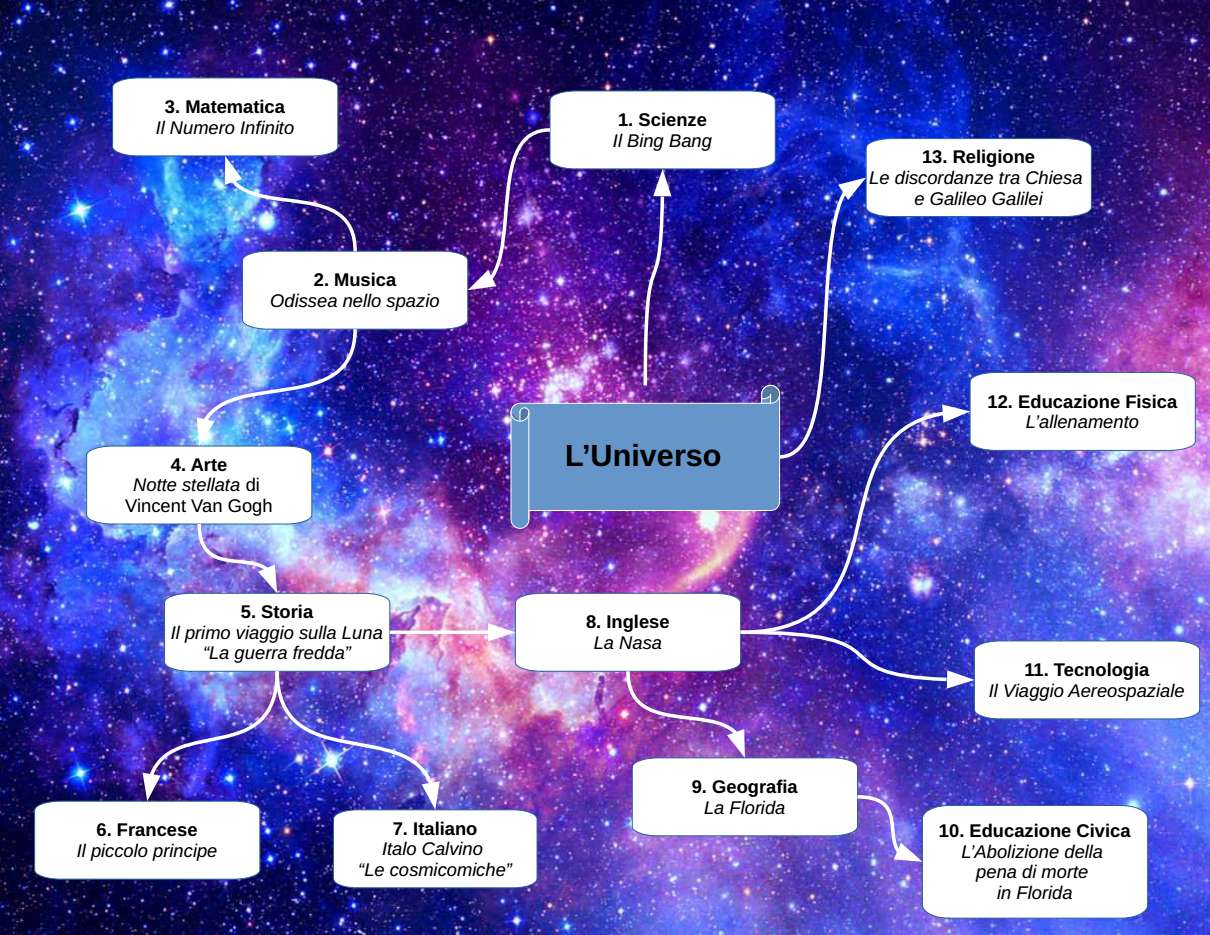
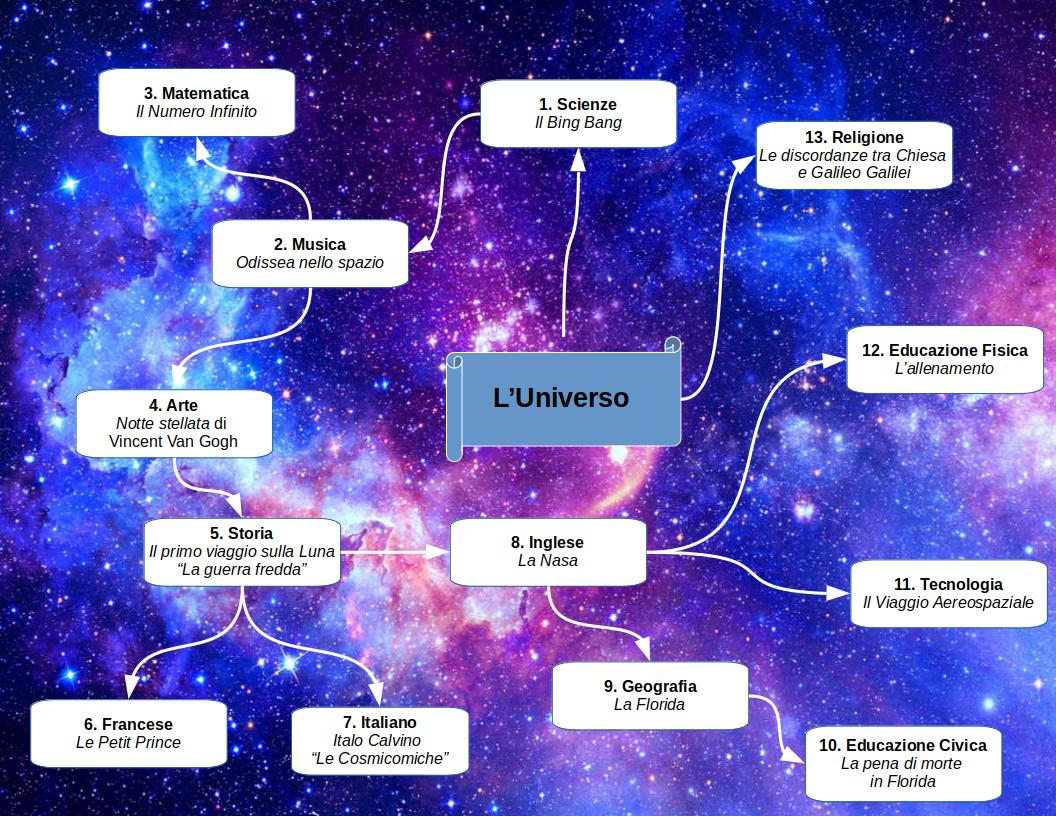
[skip ci]

diff --git a/docs/index.rst b/docs/index.rst
@@ -7,28 +7,33 @@ Ho scelto quest’argomento perché fin da bambino sono stato sempre affascinato
 
 La tesi più avvalorata dagli scienziati afferma che il **Big Bang** ha composto tutta la materia che conosciamo (l'Universo).
 
-Sull'Universo l’uomo ha creato molte storie, miti e musiche come il capolavoro "**Così parlò Zarathustra**", composto nel 1896 da Richard Strauss.
+Sull'**Universo** l’uomo ha creato molte storie, miti e musiche come il capolavoro "**Così parlò Zarathustra**", composto nel 1896 da Richard Strauss che è diventata la
+colonna sonora del film “2001 - Odissea nello spazio”.
 
-L’**Universo** si dice che sia **infinito**, concetto utilizzato anche in campo matematico per indicare qualcosa che non ha mai fine (come i numeri).
+Lo **Spazio** o **Universo** si dice che sia **infinito**, concetto utilizzato anche in campo matematico per indicare qualcosa che non ha mai fine (come i numeri).
 
-Anche l’arte alcune volte si è basata sull’**Universo**: uno dei quadri più famosi è "**La notte stellata di Van Gogh**" che è la rappresentazione di una parte del cosmo.
+Lo **Spazio** è composto da infinite stelle rappresentate in moltissime opera d’arte: uno dei quadri più famosi è "**La notte stellata di Van Gogh**" che è la rappresentazione di una
+parte del cosmo.
 
-Dall'**Universo** hanno preso spunto anche molte storie tra le quali troviamo due capolavori: **il Piccolo Principe** che è una storia di **Antoine de Saint-Exupéry** e
-**le cosmicomiche** formate da 12 racconti scritti da **Italo Calvino**.
+L’uomo ha cercato sempre di raggiungere questi corpi celesti. Il 20 luglio 1969 fu effettuato il primo viaggio sulla Luna. Il viaggio fu effettuato anche per dimostrare,
+durante la **guerra fredda**, la superiorità degli USA rispetto all’URSS.
 
-La tecnologia nell'ultimo secolo si è evoluta molto e grazie a essa siamo riusciti a espolare un piccolissima parte **dell’universo**. 
+Dall'Universo e dai viaggi nello spazio hanno preso spunto molte storie tra le quali troviamo due capolavori: **il Piccolo Principe** scritto da **Antoine de Saint-Exupéry** e
+**le Cosmicomiche** formato da 12 racconti scritti da **Italo Calvino**.
 
-Per l'esplorazione del cosmo è nata la **NASA** (Ente Nazionale per le attività Spaziali e Aeronautiche) agenzia governativa civile responsabile del programma spaziale e della
-ricerca aerospaziale in USA..
+La tecnologia nell'ultimo secolo si è evoluta molto e grazie ad essa siamo riusciti ad esplorare una piccolissima parte dell’Universo.
+
+Per l'esplorazione del cosmo è nata la **NASA** (Ente Nazionale per le attività Spaziali e Aeronautiche), agenzia governativa civile responsabile del programma spaziale e della
+ricerca aerospaziale in USA.
 
 Tra le diverse strutture della **NASA**, va ricordata la Kennedy Space Center, situata in **Florida**, divenuta famosa poiché fu il luogo da cui partì la navicella che portò l’uomo
-per la prima volta su un altro pianeta ( la Luna ), la missione è ricordata con il nome **Apollo 11**.
+per la prima volta su un altro pianeta (la Luna). La missione è ricordata con il nome di **Apollo 11**.
 
-Gli astronauti prima di partire per lo spazio si devono sottoporre a un duro **allenamento** per abituare il loro corpo all’assenza di gravità.
-Solo a coloro che hanno superano l'allenamento è consentito partire per lo spazio con il proprio shuttle spinto in orbita da un **razzo vettore** che lo trasporta a piuù di 100km di altezza.
+Gli astronauti prima di partire per lo **spazio** si devono sottoporre a un duro **allenamento** per abituare il loro corpo all’assenza di gravità. Solo a coloro che hanno superato
+l'allenamento è consentito partire per lo spazio. Lo raggiungono con lo **"shuttle"**, una navicella spaziale spinta in orbita da un **razzo vettore** che la trasporta a più di 100 km di altezza.
 
 La prima teoria scientifica sul moto dei corpi celesti fu formulata nel 1610 da **Galileo Galilei** che diffuse il suo pensiero tramite la pubblicazione di libri. La sua teoria, che iniziò
-a diffondersi rapidamente, era però in opposizione a quella sostenuta dalla chiesa. Per questo motivo **Galileo Galilei** venne condannato di eresia e fu costretto ad abiurare
+a diffondersi rapidamente, era però in opposizione a quella sostenuta dalla chiesa. Per questo motivo **Galileo Galilei** venne condannato di eresia e costretto ad abiurare
 le sue concezioni astronomiche.
 
 **Mappa Concettuale**
